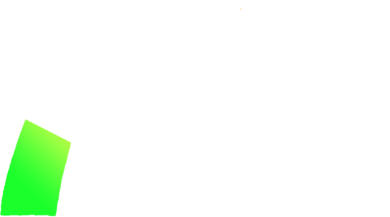
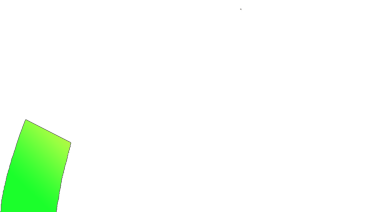
Some more Wasah

diff --git a/common/gui.c b/common/gui.c
@@ -298,11 +298,11 @@ void* gui_main(void* arg)
 				gTextGear.renderTXTRelToScrn(RELATIVE_PLACE_FONT_GEAR_X, RELATIVE_PLACE_FONT_GEAR_Y);
 				gTextVelocity.renderTXTRelToScrn(RELATIVE_PLACE_FONT_VELOCITY_X, RELATIVE_PLACE_FONT_VELOCITY_Y);
 
-				Point p(300,300);
+				Point p(200,200);
 				Point delXY(-125,-80);
-				//utils.rotateVec(pts , Updated_pts , p , 20);
 				//Point delXY(-100,-100);
 				utils.translateVec(pts ,Updated_pts ,delXY);
+				//utils.rotateVec(pts , Updated_pts , p , degrees%30);
 				//utils.strechVec(pts ,Updated_pts, p ,0.5, 'y');
 				//utils.strechVec(pts ,Updated_pts, p ,0.2, 'x');
 				for(ptsIndex = 1; ptsIndex <= pts.size() ;ptsIndex++)

diff --git a/inc/gui.h b/inc/gui.h
@@ -44,8 +44,8 @@
 #define RELATIVE_PLACE_ARTHORZ_X 5.0/10
 #define RELATIVE_PLACE_ARTHORZ_Y 5.0/10
 
-#define VEL_FONT_COLOR 	{ 0x7F, 0x4B, 0x9F}
-#define GEAR_FONT_COLOR { 0x7F, 0x4B, 0x9F}
+#define VEL_FONT_COLOR 	{ 0xFF, 0xFF, 0xFF}
+#define GEAR_FONT_COLOR { 0xFF, 0xFF, 0xFF}
 
 //velocity 7 seg font place
 #define RELATIVE_PLACE_FONT_VELOCITY_X 5.7/10
